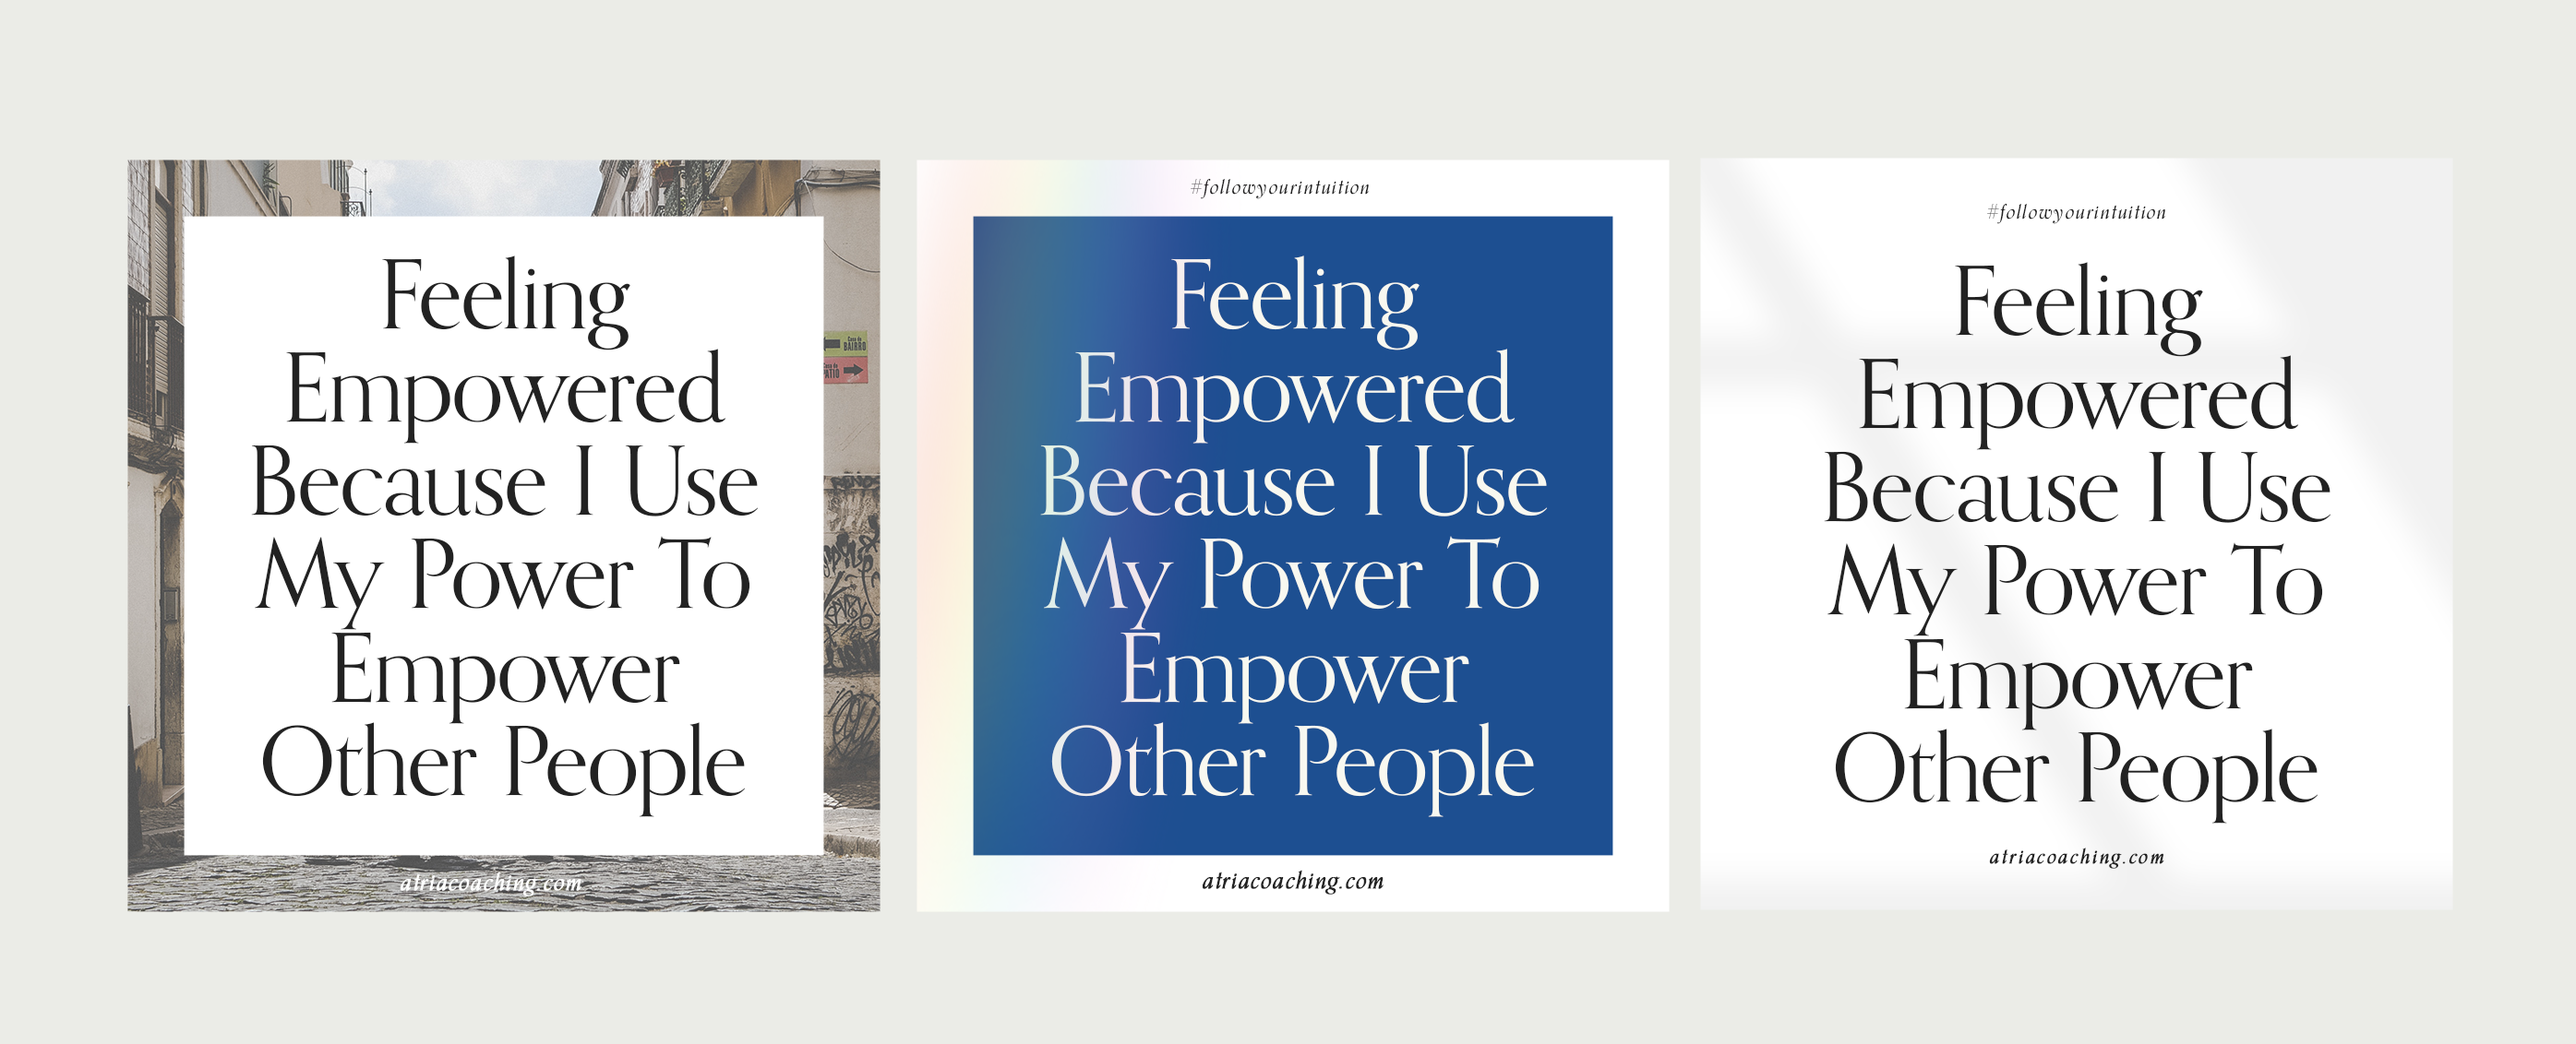
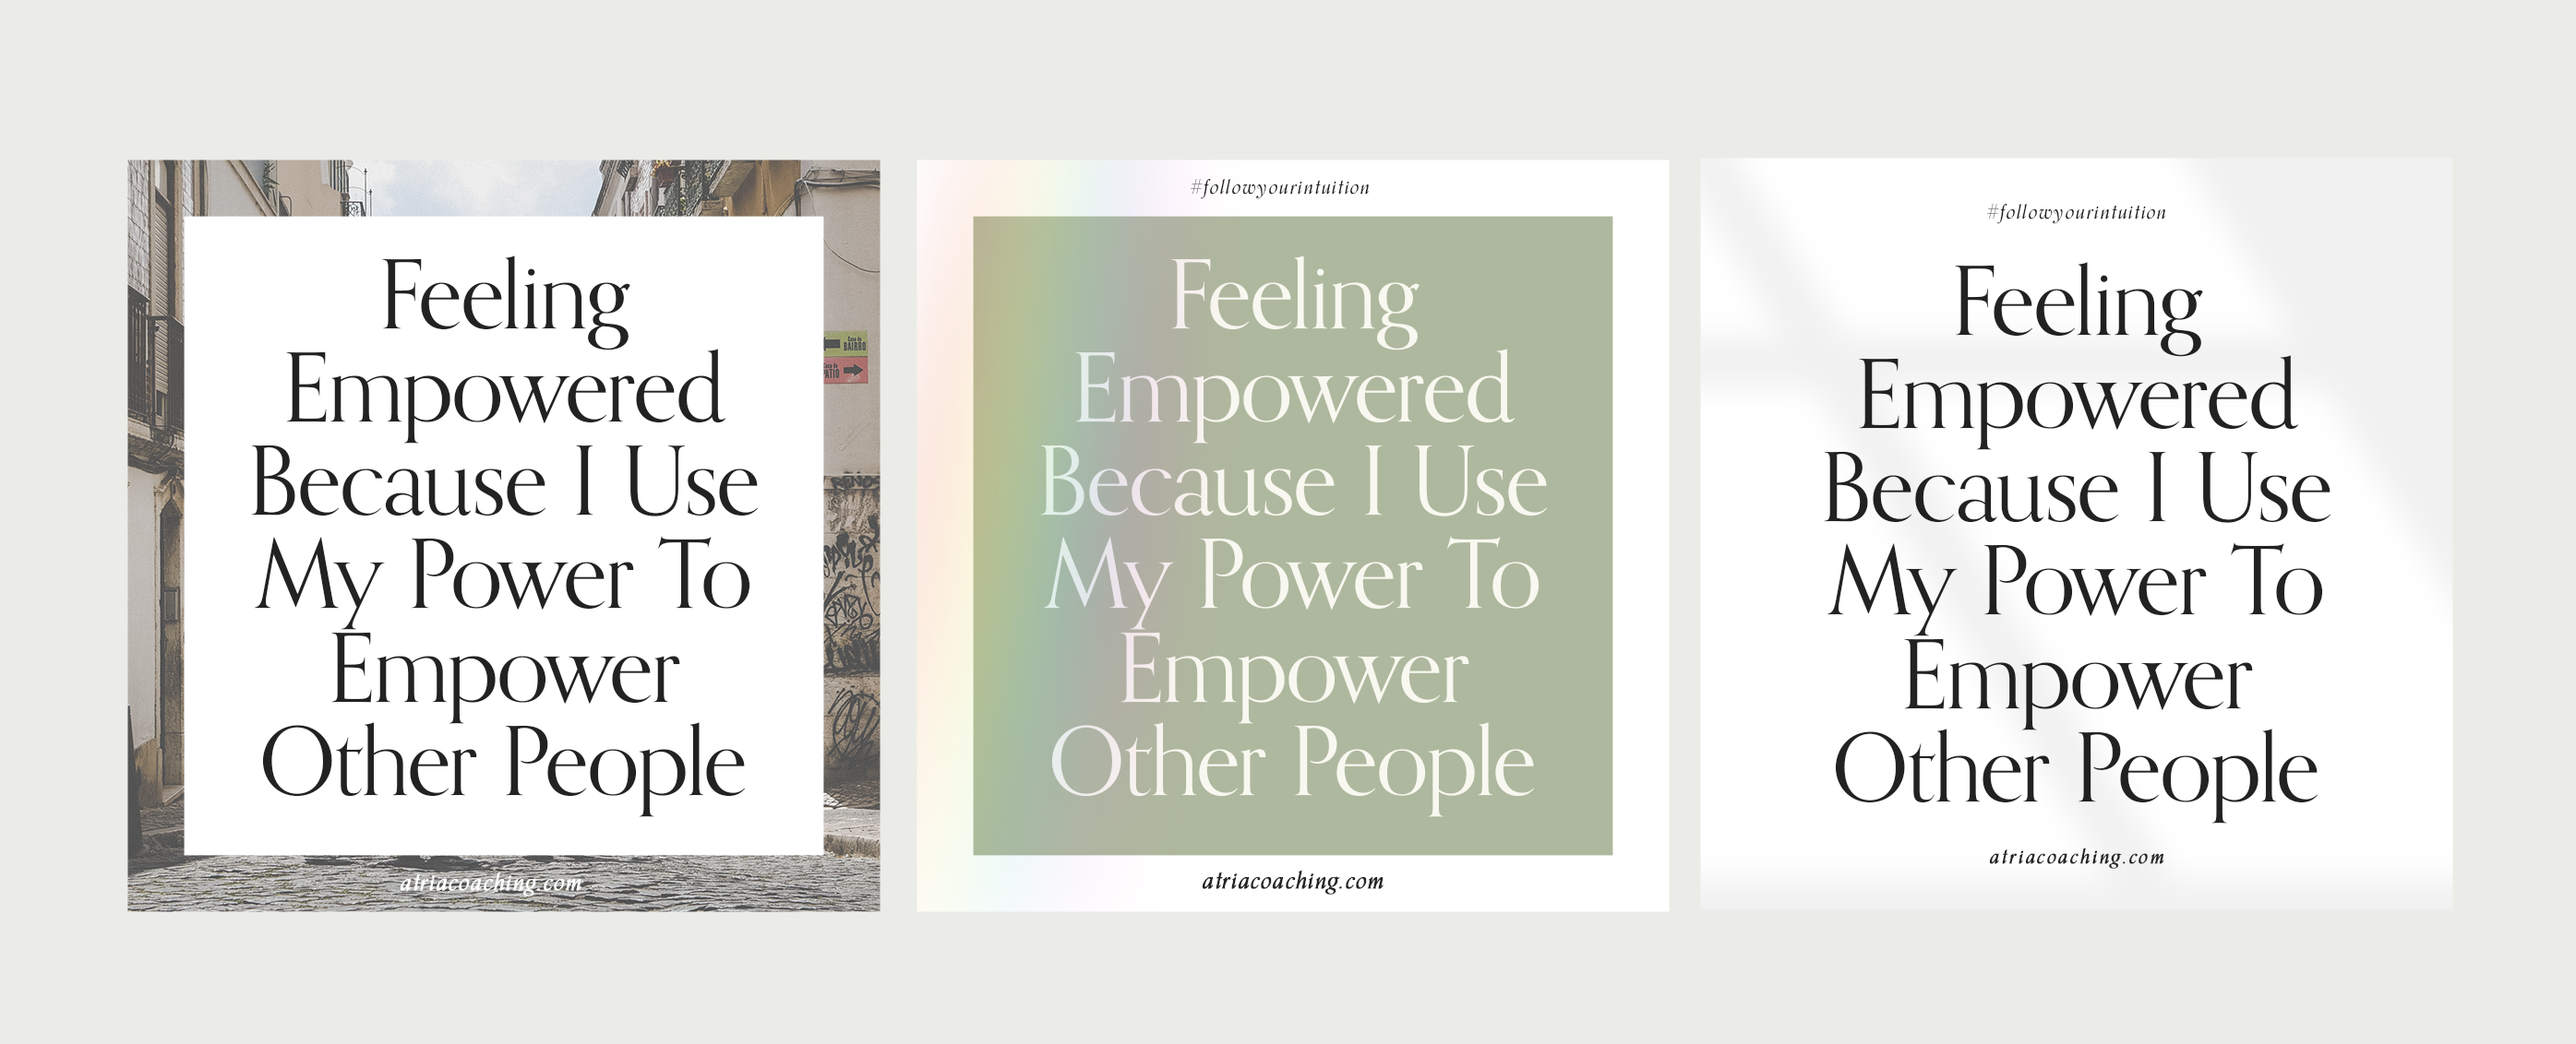
minor adjustments

Changed region(s): [[0.3741, 0.1855, 0.6234, 0.8348]]

diff --git a/src/pages/Final.js b/src/pages/Final.js
@@ -15,7 +15,7 @@ function ConceptOne() {
   return (
     <div className="concept-one">
       <h3>Final Designs</h3>
-      <p>After finding out your preferences I brought all your thoughts together in the final concept. You asked to see the colours from Concept 2 (I did adjust 'Pearl White', 'Light Apricot' and 'Golden Stone' slightly to compliment the layout in a more flattering way) along with the Logo and tiles from Concept 3 (as well as 2 tiles from concept 1) </p>
+      <p>After finding out your preferences I brought all your thoughts together in the final concept. You asked to see the colours from Concept 2 (I added 'Sage' and adjusted 'Pearl White', 'Light Apricot' and 'Golden Stone' slightly to compliment this layout in a more flattering manner). You wanted the Logo and Tiles from Concept 3 (and 2 tiles from concept 1) </p>
       <p>You asked to see Glacial Indifference replace Commuters Sans and after playing around with that idea, I disagree. The short and wide characters present in Commuters Sans balance the high and thin character sets present in Orpheus and Capitolium. Those characteristics just aren't present in Glacial Indifference.</p>
       <p>That being said, we can go with the fonts from concept 1 or 2 instead of 3 but I recommend we stick with this font combination, Commuters Sans adds depth and gives this combination and classy, luxurious vibe. I also added the fonts to this site so you can preview what everything can look like once it's all together. But, if you are truly unhappy with Commuter Sans, let's talk it out.</p>
       <img src={vision} alt="vision board" />
